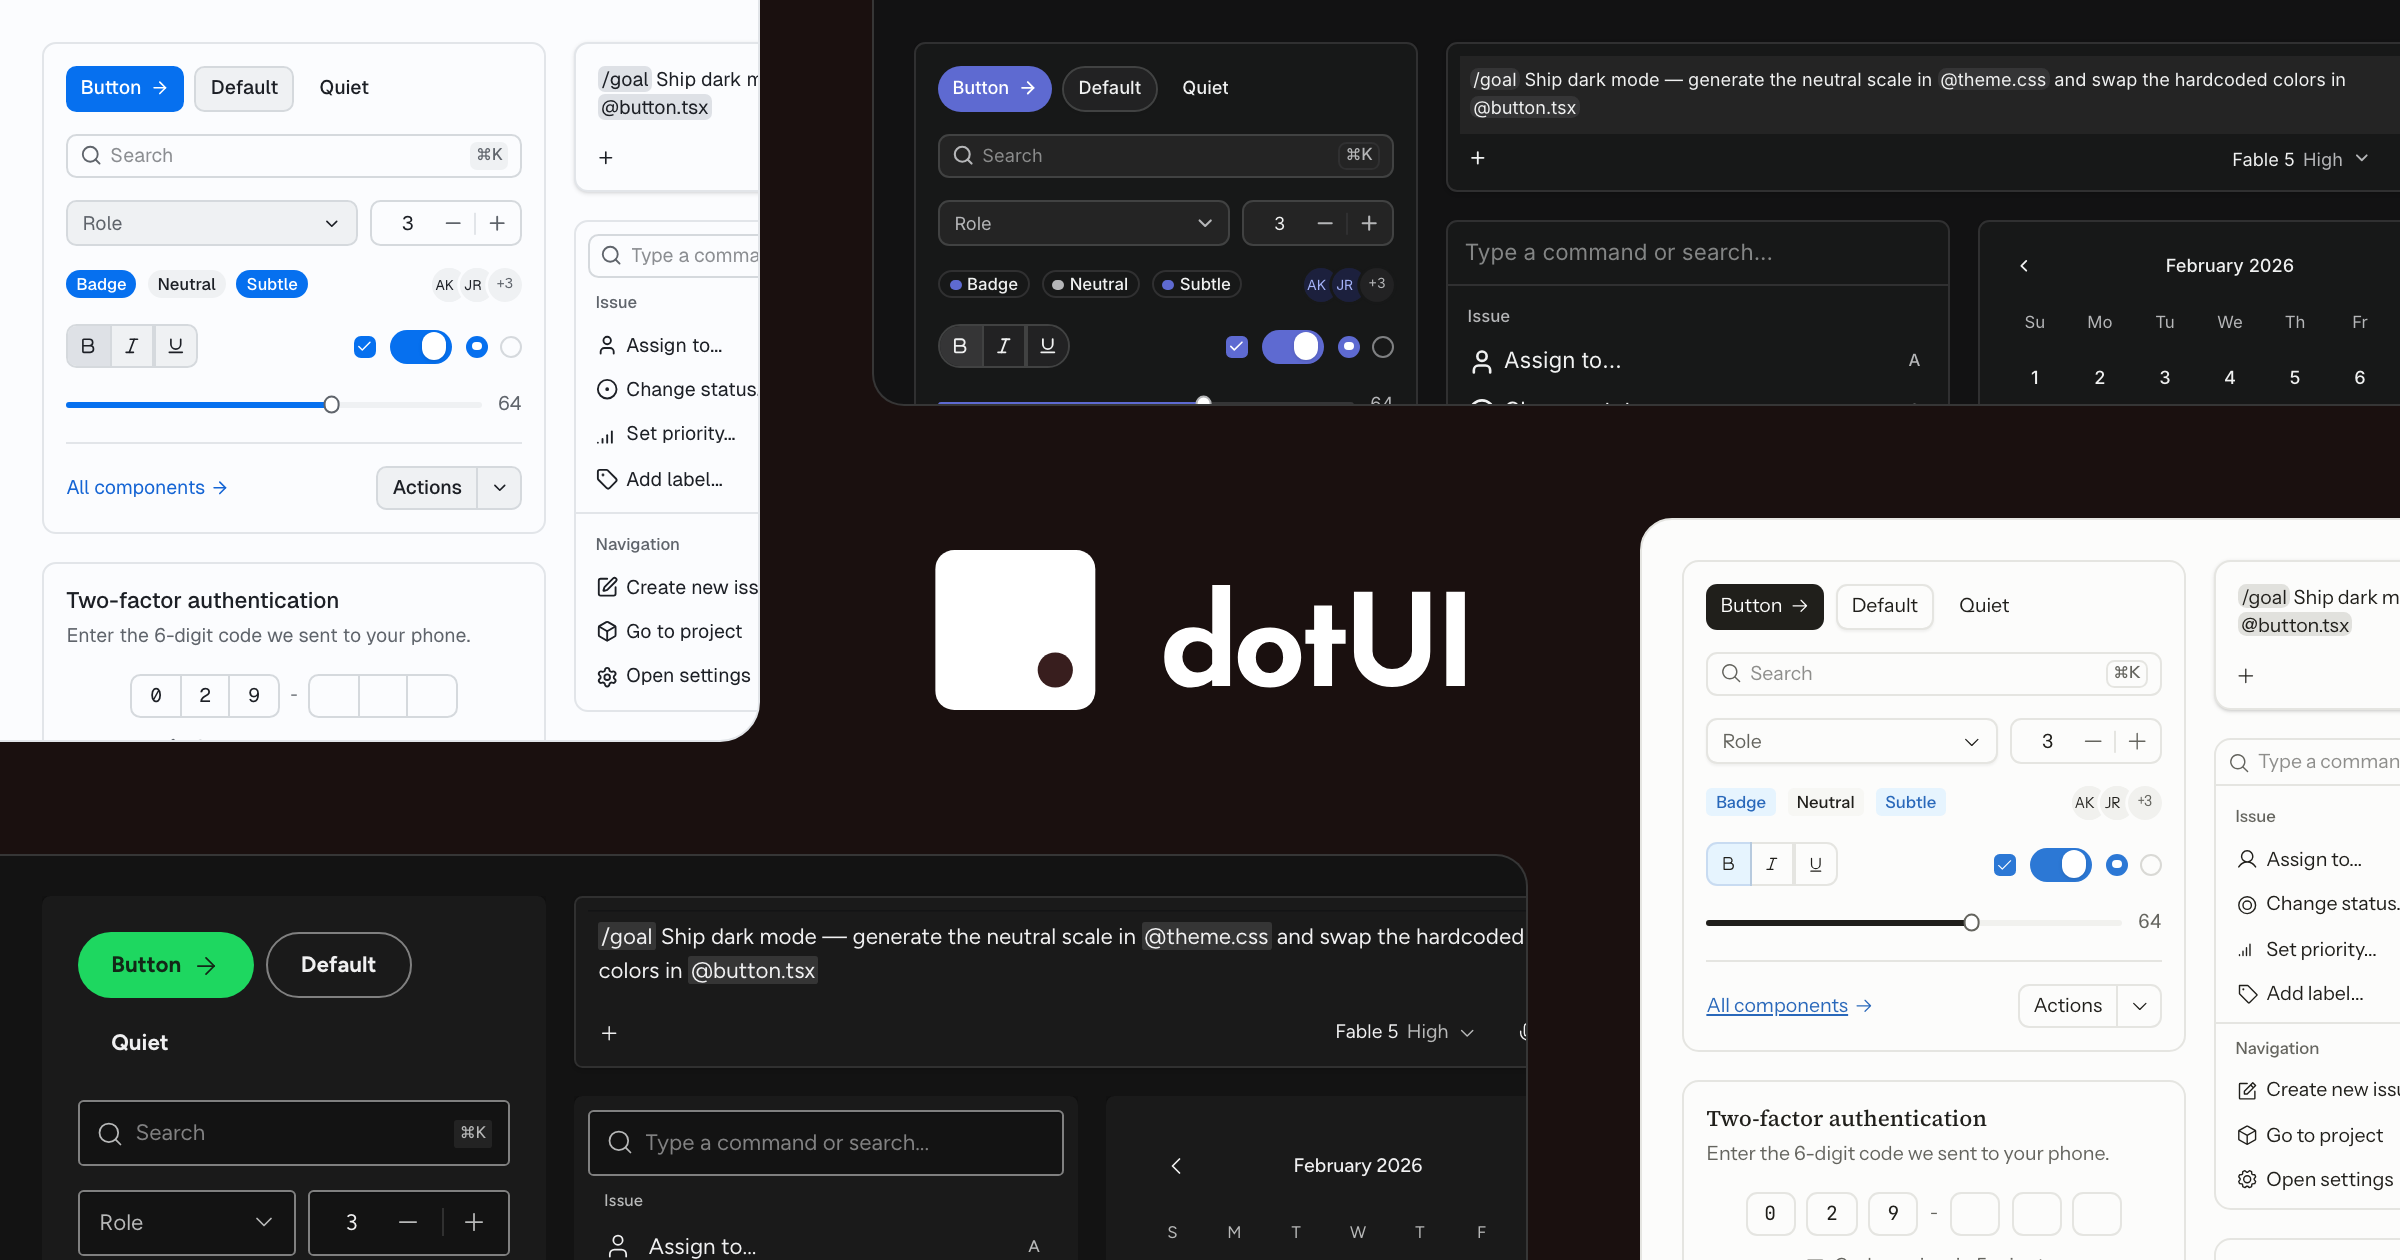
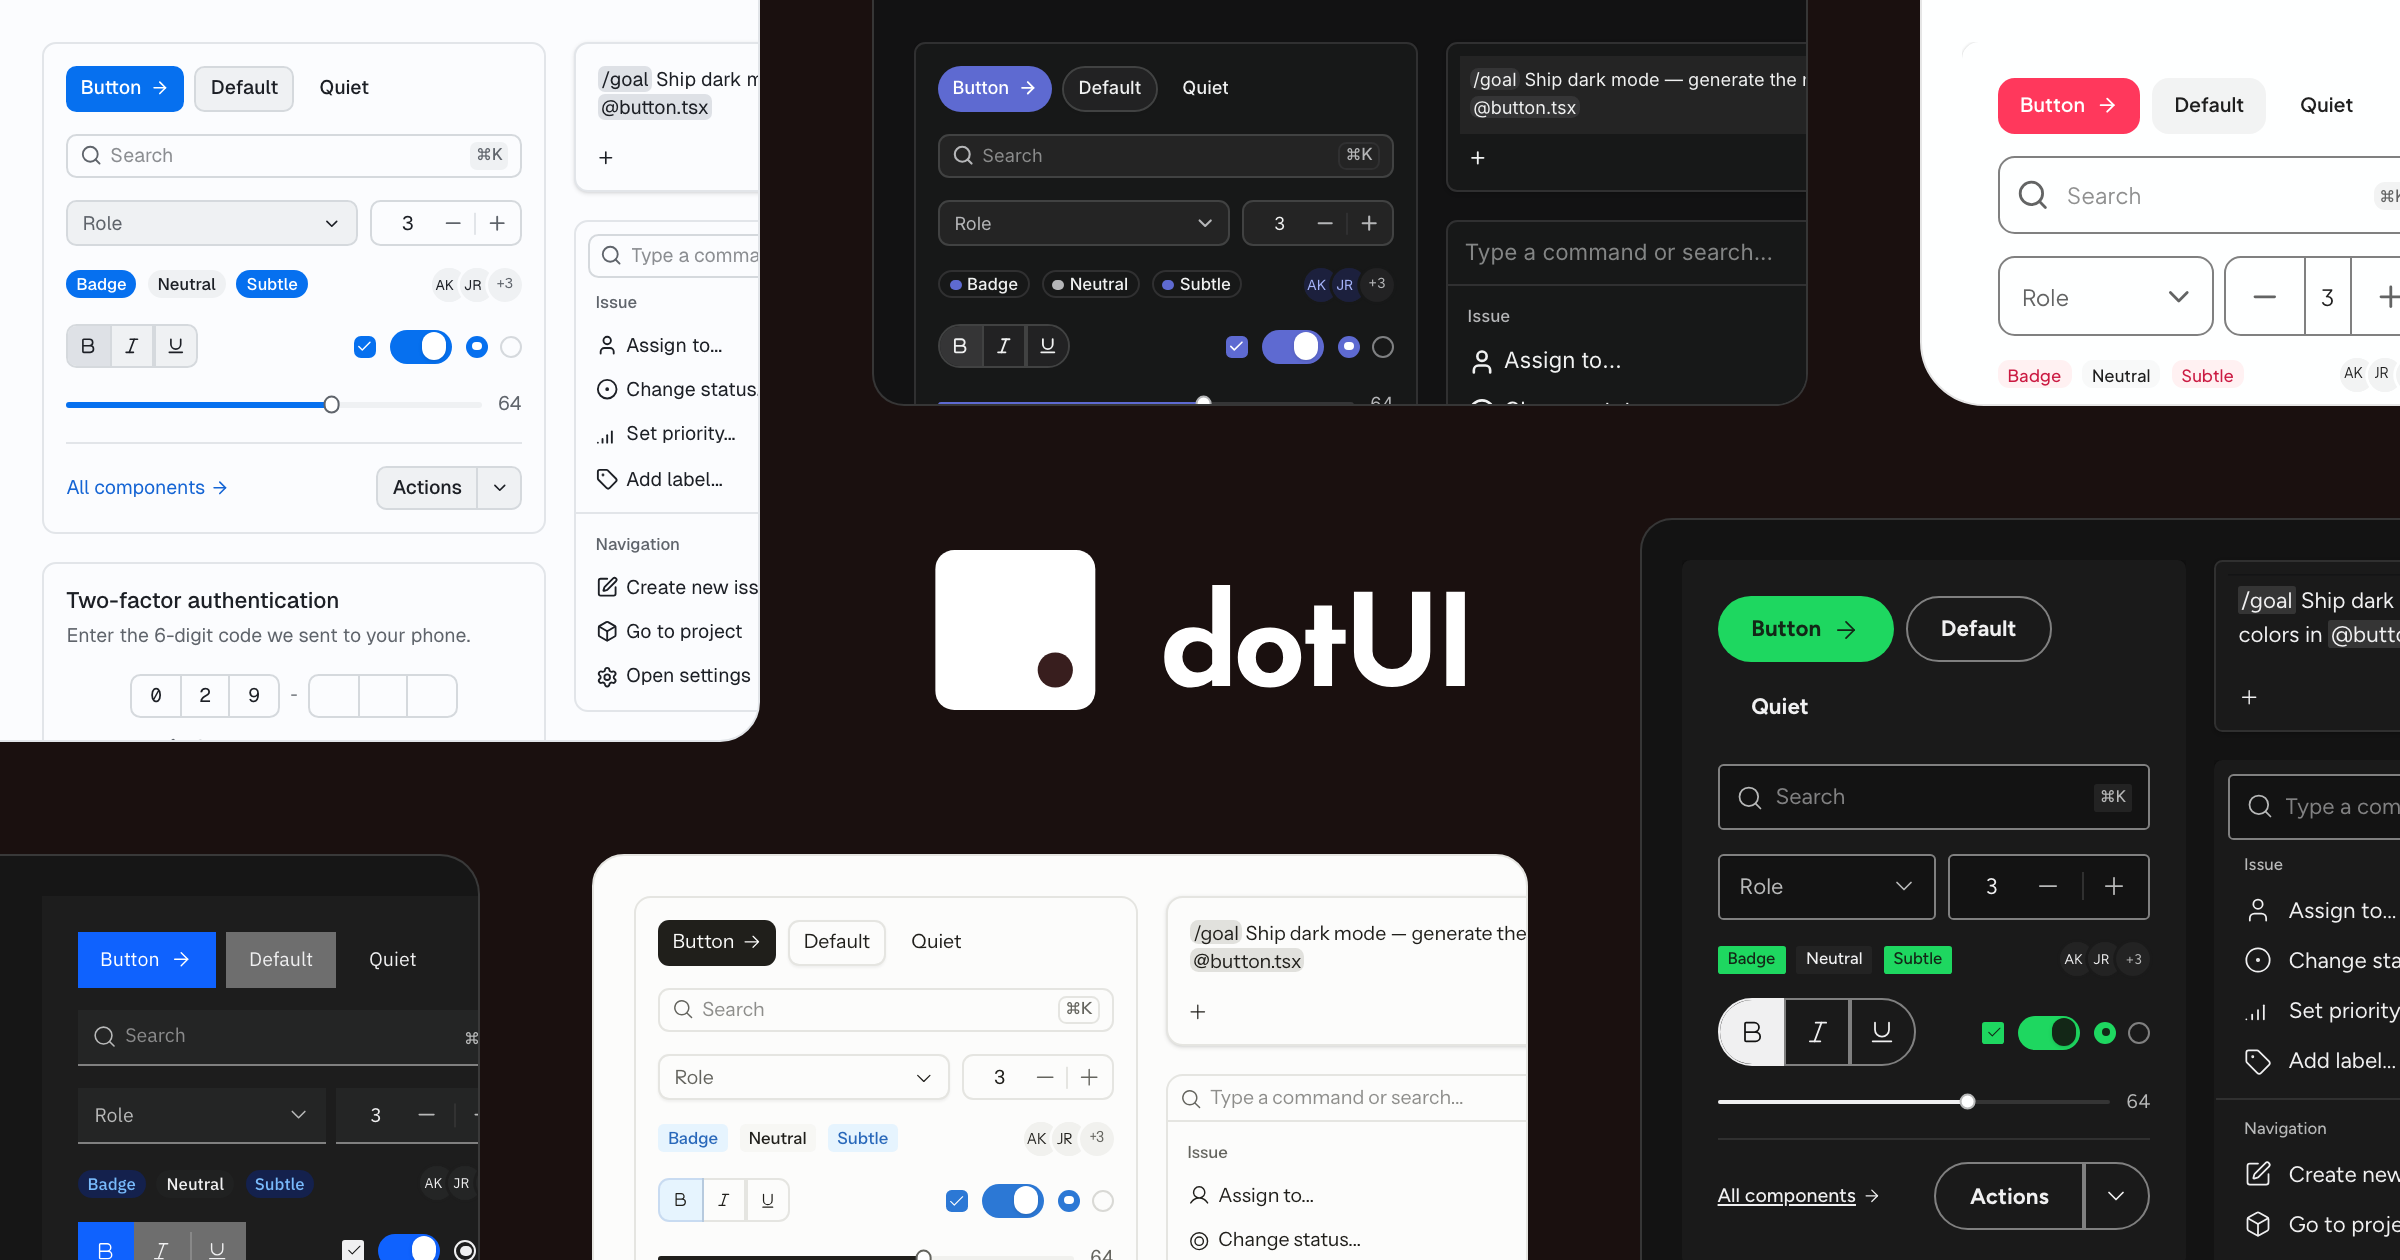
feat(brand): pinwheel cover with six presets

diff --git a/www/src/modules/marketing/cover.tsx b/www/src/modules/marketing/cover.tsx
@@ -15,6 +15,8 @@ const BLEED = -40
 const HALF_W = 220
 const HALF_H = 112
 const GUTTER = 56
+// Where the top and bottom rows split in two, from the center.
+const SPLIT = 360
 
 const fromCenter = (px: number) => `calc(50% + ${px}px)`
 
@@ -38,14 +40,24 @@ const SLOTS: {
     mode: "dark",
     inset: {
       top: BLEED,
-      right: BLEED,
       left: fromCenter(GUTTER - HALF_W),
+      right: fromCenter(GUTTER - SPLIT),
       bottom: fromCenter(HALF_H),
     },
   },
   {
-    preset: "claude",
+    preset: "airbnb",
     mode: "light",
+    inset: {
+      top: BLEED,
+      right: BLEED,
+      left: fromCenter(SPLIT),
+      bottom: fromCenter(HALF_H),
+    },
+  },
+  {
+    preset: "spotify",
+    mode: "dark",
     inset: {
       bottom: BLEED,
       right: BLEED,
@@ -54,12 +66,22 @@ const SLOTS: {
     },
   },
   {
-    preset: "spotify",
+    preset: "claude",
+    mode: "light",
+    inset: {
+      bottom: BLEED,
+      left: fromCenter(GUTTER - SPLIT),
+      right: fromCenter(GUTTER - HALF_W),
+      top: fromCenter(HALF_H),
+    },
+  },
+  {
+    preset: "carbon",
     mode: "dark",
     inset: {
       bottom: BLEED,
       left: BLEED,
-      right: fromCenter(GUTTER - HALF_W),
+      right: fromCenter(SPLIT),
       top: fromCenter(HALF_H),
     },
   },
